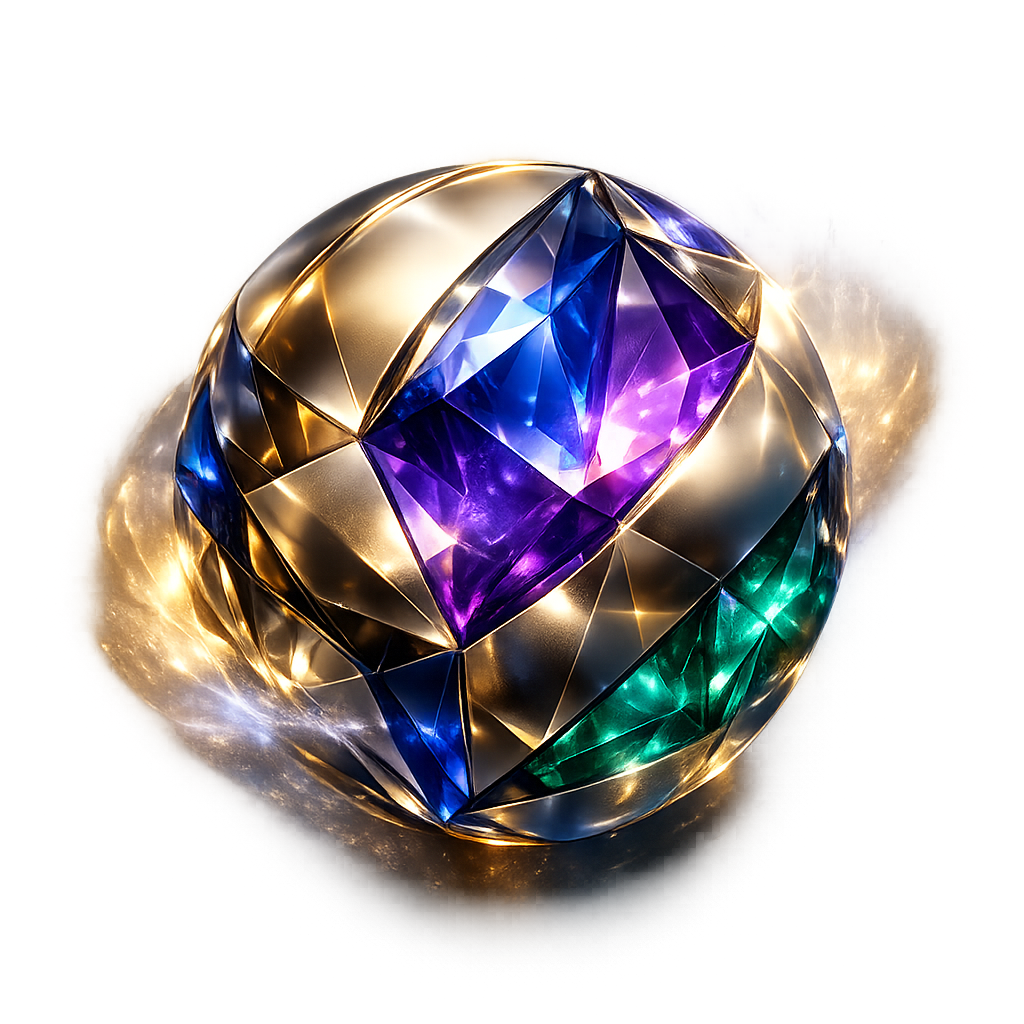
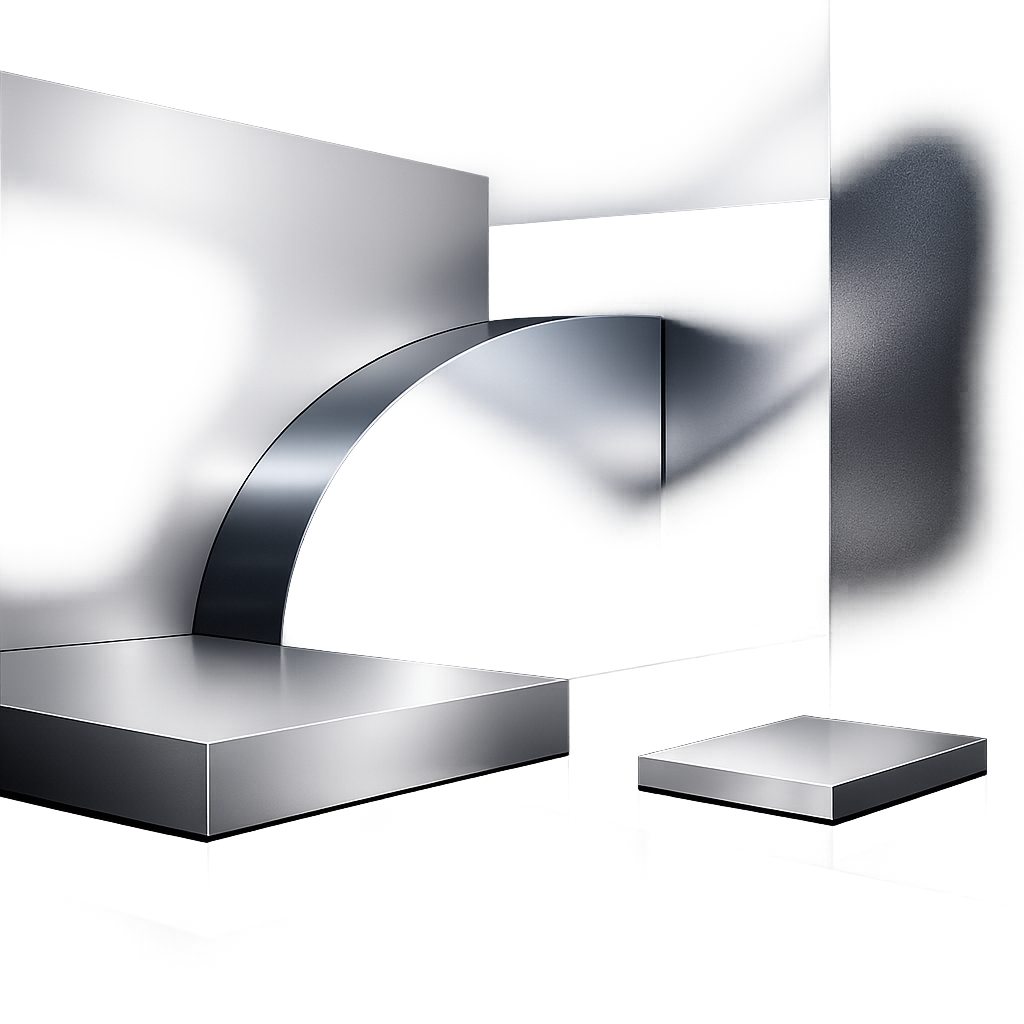
feat: minimal luxury v3 images (no gems/text, clean metallic)
- Hero orb: brushed steel/indigo
- Services: subtle gradient panels
- 파일명 _v3.webp + 코드 업데이트

diff --git a/components/Services.tsx b/components/Services.tsx
@@ -71,7 +71,7 @@ export default function Services() {
               {/* Base image */}
               {/* eslint-disable-next-line @next/next/no-img-element */}
               <img
-                src={"/gen/services/" + (s.art === "anim" ? "video-v2.webp" : s.art === "celeb" ? "talent-v2.webp" : "ads-v2.webp")}
+                src={"/gen/services/" + (s.art === "anim" ? "video_v3.webp" : s.art === "celeb" ? "talent_v3.webp" : "ads_v3.webp")}
                 alt={s.title}
                 loading="lazy"
                 className="absolute inset-0 w-full h-full object-cover transition-transform duration-700 group-hover:scale-110"

diff --git a/components/HeroArt.tsx b/components/HeroArt.tsx
@@ -2,7 +2,7 @@
 
 /**
  * HeroArt — ULTRA BLINDING neon orb with intense rainbow trails
- * Maximum visual impact with /gen/hero-v2.webp
+ * Maximum visual impact with /gen/hero_v3.webp
  */
 export default function HeroArt() {
   return (
@@ -102,7 +102,7 @@ export default function HeroArt() {
         {/* Hero image */}
         {/* eslint-disable-next-line @next/next/no-img-element */}
         <img
-          src="/gen/hero-v2.webp"
+          src="/gen/hero_v3.webp"
           alt="morpio AI media studio"
           className="absolute inset-0 w-full h-full object-cover rounded-full"
           style={{
